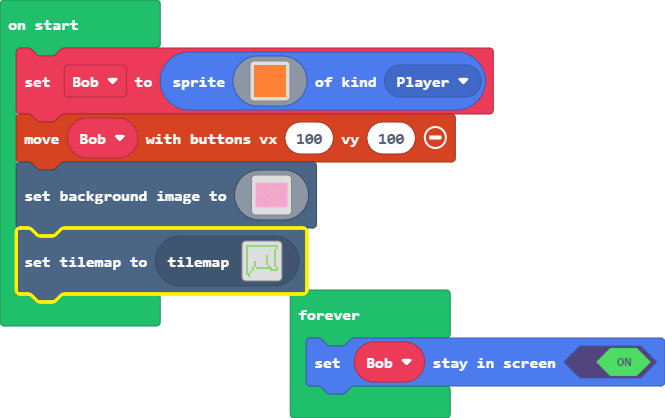
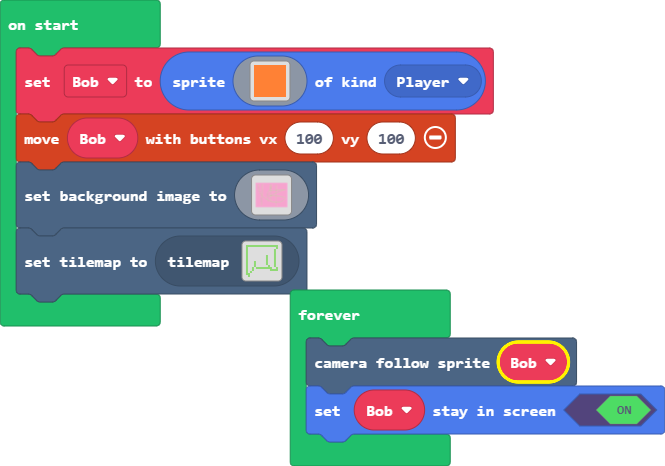
Update main.blocks, main.ts

Changed region(s): [[0.0, 0.0311, 1.0, 0.9641]]

diff --git a/main.ts b/main.ts
@@ -141,5 +141,6 @@ scene.setBackgroundImage(img`
     `)
 tiles.setCurrentTilemap(tilemap`level2`)
 forever(function () {
+    scene.cameraFollowSprite(Bob)
     Bob.setStayInScreen(true)
 })
